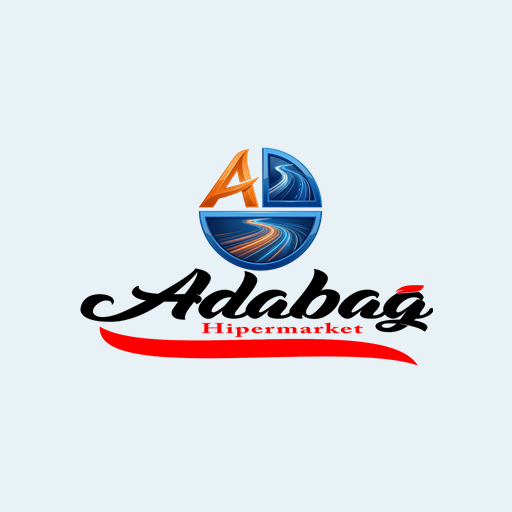
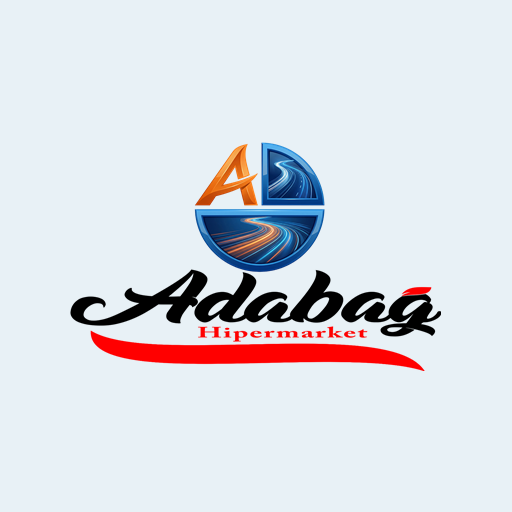
Update compiled Adabag Market application

Changed region(s): [[0.125, 0.2812, 0.875, 0.7188]]

diff --git a/index.html b/index.html
@@ -25,10 +25,10 @@
   <meta name="mobile-web-app-capable" content="yes">
   <meta name="apple-mobile-web-app-status-bar-style" content="black">
   <meta name="apple-mobile-web-app-title" content="Adabağ Market">
-  <link rel="apple-touch-icon" sizes="180x180" href="icons/apple-touch-icon-v10.png">
+  <link rel="apple-touch-icon" sizes="180x180" href="icons/apple-touch-icon-v11.png">
 
   <!-- Favicon -->
-  <link rel="icon" type="image/png" href="icons/pwa-192-v10.png?v=20261107-shortcut-10" sizes="192x192"/>
+  <link rel="icon" type="image/png" href="icons/pwa-192-v11.png?v=20261107-shortcut-10" sizes="192x192"/>
 
   <title>Adabağ Market</title>
   <link rel="manifest" href="manifest.json?v=20261107-icons-10">
@@ -59,7 +59,7 @@
     * https://docs.flutter.dev/platform-integration/web/initialization
   -->
   <script src="pwa-install.js?v=20261107-2" defer></script>
-  <script src="flutter_bootstrap.js?v=20261107-logo-fon-uyumu-12" async></script>
+  <script src="flutter_bootstrap.js?v=20261107-logo-fon-buyuk-13" async></script>
 </body>
 </html>
 

diff --git a/flutter_bootstrap.js b/flutter_bootstrap.js
@@ -43,7 +43,7 @@ _flutter.buildConfig = {"engineRevision":"deb287481e3ce9468f3434937ced4240a70539
 
 // A new URL for each release avoids stale JavaScript in installed PWAs.
 for (const build of _flutter.buildConfig.builds) {
-  if (build.mainJsPath) build.mainJsPath += '?v=20261107-logo-fon-uyumu-12';
+  if (build.mainJsPath) build.mainJsPath += '?v=20261107-logo-fon-buyuk-13';
 }
 (async () => {
   if ('serviceWorker' in navigator) {
